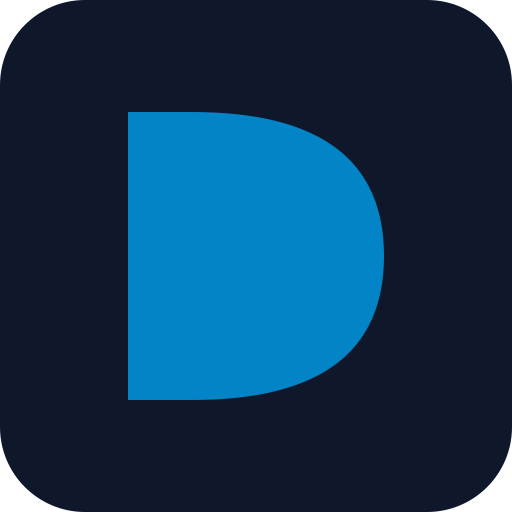
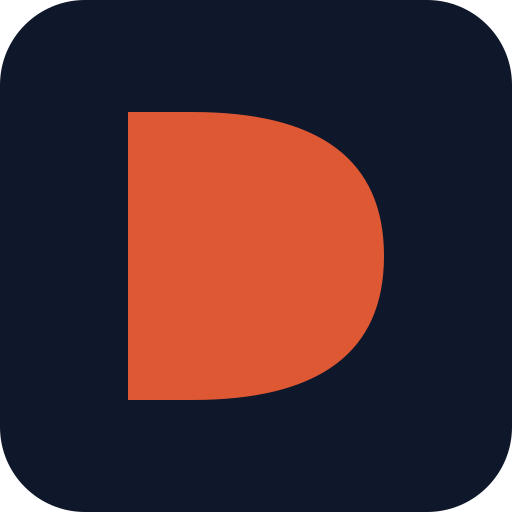
feat: update dependencies and add StoreProvider for Jotai state management
- Added new dependencies: clsx, jotai, lucide-react
- Removed duplicate dependencies in package.json
- Updated sharp dependency to version 0.35.3
- Added StoreProvider component to manage Jotai store instance
- Updated layout.tsx to wrap children with StoreProvider
- Changed theme color in manifest files from #0284c7 to #DE5833
- Updated PWA Web Manifest tests to reflect theme color change
- Updated various public assets (icons and SVGs)

Changed region(s): [[0.25, 0.2188, 0.75, 0.7812]]

diff --git a/src/app/layout.tsx b/src/app/layout.tsx
@@ -2,6 +2,7 @@ import type { Metadata } from 'next'
 import './globals.css'
 import { Nav } from '@/components/layout/nav'
 import { HtmlLangSync } from '@/components/layout/html-lang-sync'
+import { StoreProvider } from '@/components/layout/store-provider'
 
 export const metadata: Metadata = {
   title: 'DDG Email Panel',
@@ -52,9 +53,11 @@ export default function RootLayout({
         <script dangerouslySetInnerHTML={{ __html: swRegisterScript }} />
       </head>
       <body className="min-h-screen flex flex-col font-sans">
-        <HtmlLangSync />
-        <Nav />
-        {children}
+        <StoreProvider>
+          <HtmlLangSync />
+          <Nav />
+          {children}
+        </StoreProvider>
       </body>
     </html>
   )

diff --git a/src/components/layout/store-provider.tsx b/src/components/layout/store-provider.tsx
@@ -1,0 +1,17 @@
+'use client'
+
+import { createStore, Provider } from 'jotai'
+import { useRef } from 'react'
+
+/**
+ * 创建一个共享的 Jotai store 实例，用于 Provider 包裹。
+ * 保证所有 useAtom 操作使用同一个 store，避免 Next.js App Router 中
+ * layout 和 page 跨 chunk 加载多个 Jotai 实例触发 "Detected multiple Jotai instances" 警告。
+ */
+export function StoreProvider({ children }: { children: React.ReactNode }) {
+  const storeRef = useRef<ReturnType<typeof createStore> | null>(null)
+  if (!storeRef.current) {
+    storeRef.current = createStore()
+  }
+  return <Provider store={storeRef.current}>{children}</Provider>
+}

diff --git a/src/app/manifest.test.ts b/src/app/manifest.test.ts
@@ -7,7 +7,7 @@ describe('PWA Web Manifest', () => {
     expect(config.name).toBe('DDG Email Panel')
     expect(config.display).toBe('standalone')
     expect(config.start_url).toBe('/')
-    expect(config.theme_color).toBe('#0284c7')
+    expect(config.theme_color).toBe('#DE5833')
   })
 
   it('应当引用可访问的 192x192 和 512x512 图标', () => {

diff --git a/src/app/manifest.ts b/src/app/manifest.ts
@@ -8,7 +8,7 @@ export default function manifest(): MetadataRoute.Manifest {
     start_url: '/',
     display: 'standalone',
     background_color: '#0f172a',
-    theme_color: '#0284c7',
+    theme_color: '#DE5833',
     icons: [
       {
         src: '/icon-192.png',
